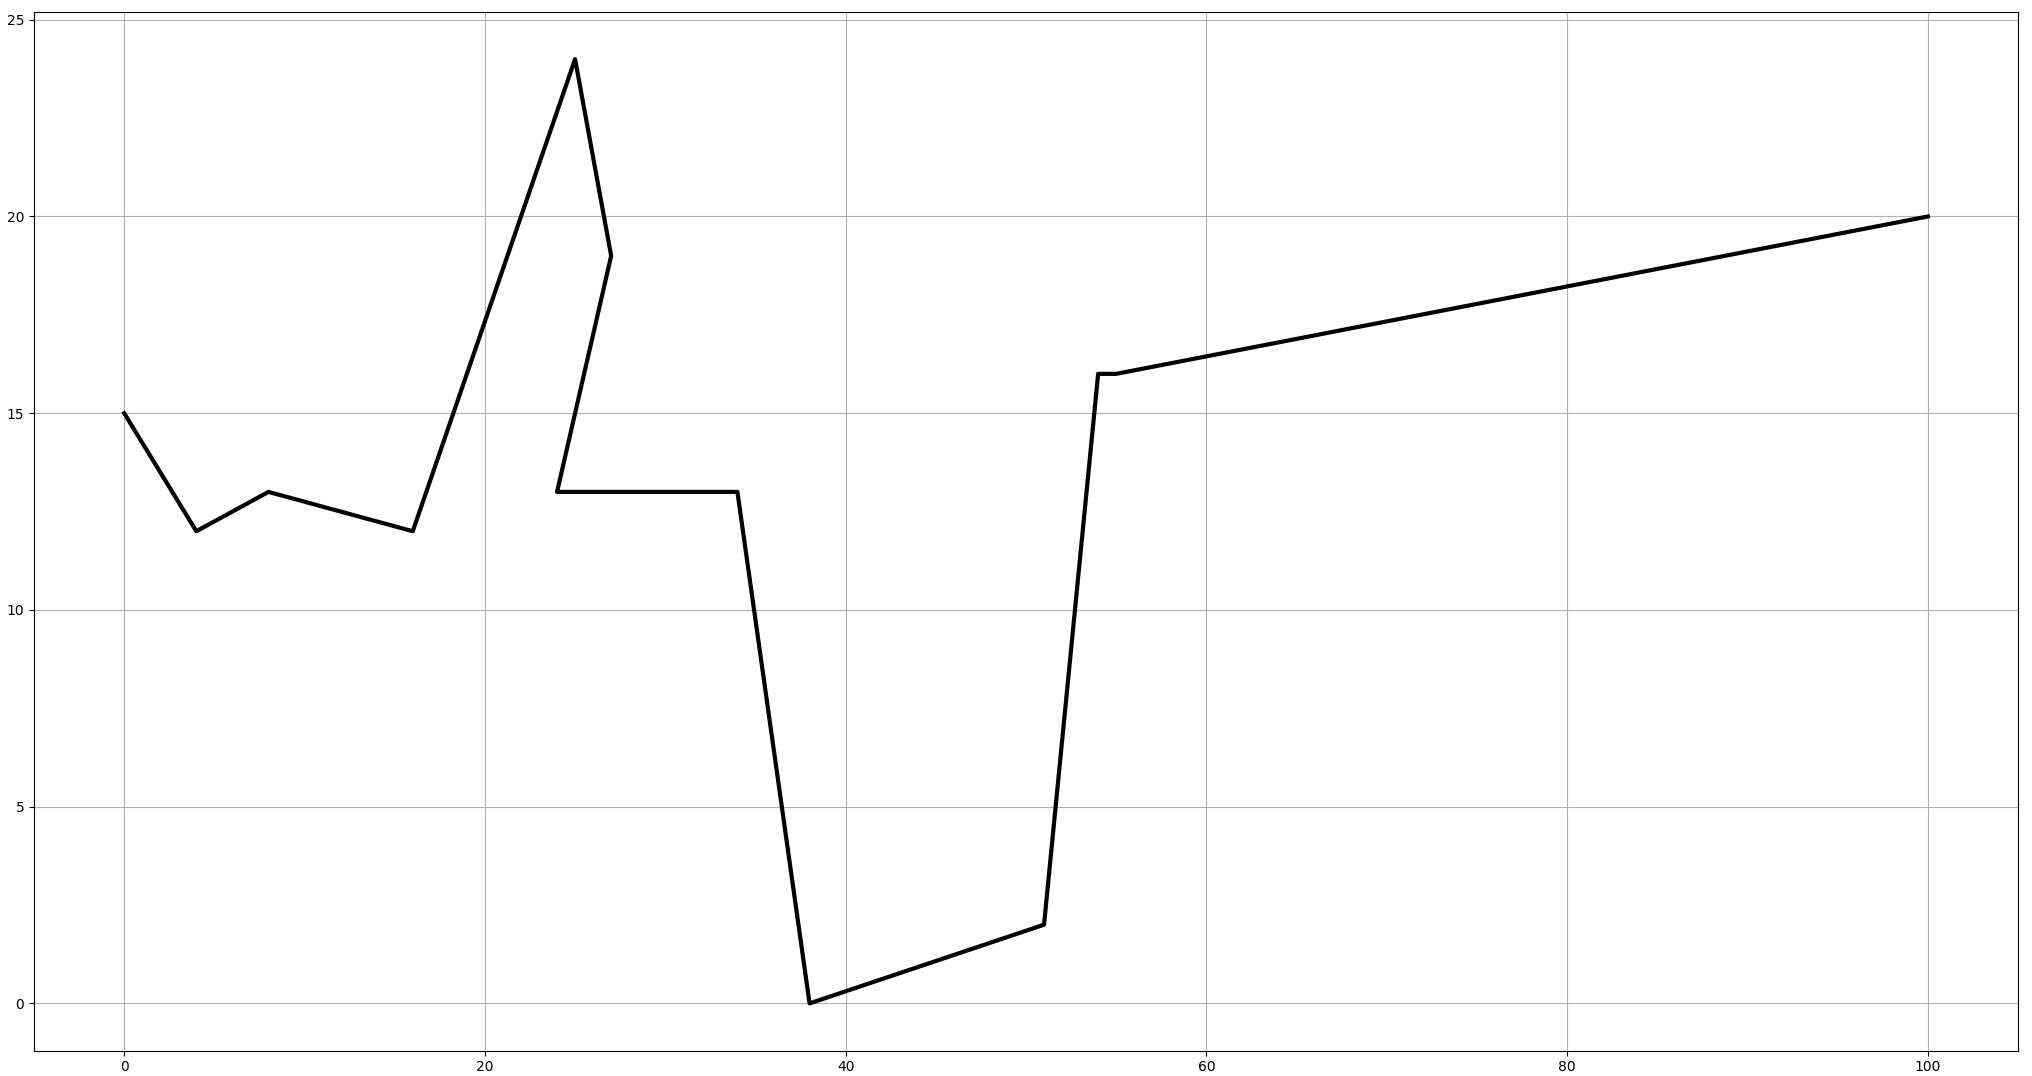
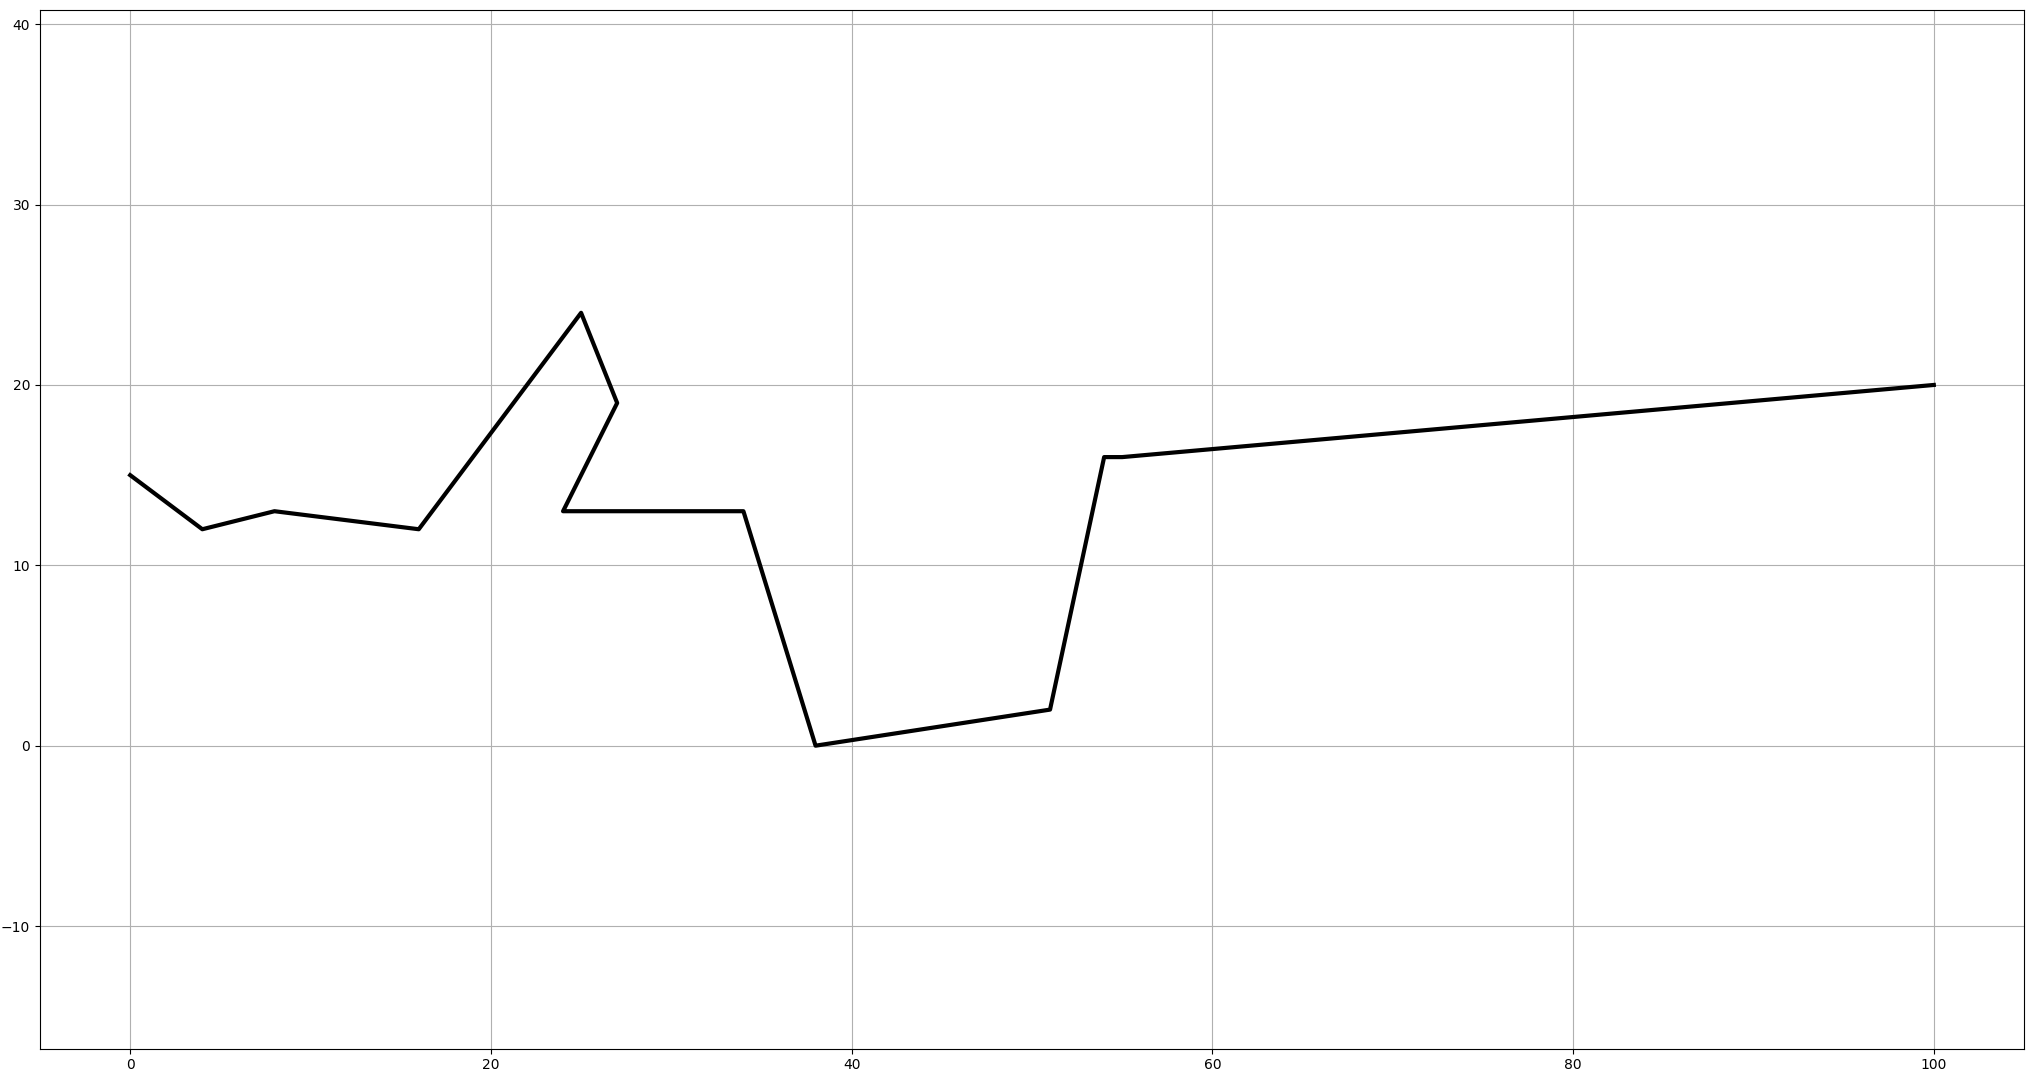
Create new images

diff --git a/python/start.py b/python/start.py
@@ -6,7 +6,7 @@ import matplotlib.pyplot as plt
 
 import python.plots as plots
 
-t = 1.1
+t = 1.2
 epsilon = 0.05
 s = (12 + 24 * (1 + epsilon / 3) * t) / epsilon
 path = [
@@ -26,14 +26,12 @@ path = [
 ]
 n = len(path)
 
-S = util.flatten_path(path)
 
-
-def plot_shortest_path(path):
-    x_list = [path[0].x, path[2].x, path[4].x, path[6].x, path[7].x, path[8].x, path[9].x, path[11].x]
-    y_list = [path[0].y, path[2].y, path[4].y, path[6].y, path[7].y, path[8].y, path[9].y, path[11].y]
+def plot_shortest_path(path, indices):
+    x_list = [path[i].x for i in indices]
+    y_list = [path[i].y for i in indices]
     line = plt.plot(x_list, y_list)
-    plt.setp(line, color='red', linewidth=3)
+    plt.setp(line, color='lightgreen', linewidth=2)
 
 
 def print_edges(edges):
@@ -41,16 +39,36 @@ def print_edges(edges):
         print(e)
 
 
-dil = util.get_all_dilations(path, S)
+def print_edge_lengths(path, S):
+    for i in range(len(path) - 1):
+        print("Edge between " + path[i].name + " and " + path[i + 1].name + ":\t" + str(S[i + 1] - S[i]))
 
+
+def plot_edge_lengths():
+    plots.plot_points(path, [0, 4], 'red')
+    plots.plot_text_on_edge(path[0], path[1], round(S[1], 1), (-1.5, -1.5))
+    plots.plot_text_on_edge(path[1], path[2], round(S[2] - S[1], 1), (0.15, -1))
+    plots.plot_text_on_edge(path[2], path[3], round(S[3] - S[2], 1), (0, -1.5))
+    plots.plot_text_on_edge(path[3], path[4], round(S[4] - S[3], 1), (0.8, -0.3))
+    plots.plot_text_on_edge(path[0], path[4], round(util.euclidean_distance(path[0], path[4]), 1), (-1, 1))
+
+
+S = util.flatten_path(path)
 edges = util.get_t_distance_preserving_edges(path, t, S)
-edges_epsilon = util.get_t_epsilon_distance_preserving_edges(path, t, epsilon, S)
+# edges_epsilon = util.get_t_epsilon_distance_preserving_edges(path, t, epsilon, S)
+
+# print_edge_lengths(path, S)
+# print("Euclidean:\t" + str(util.euclidean_distance(path[0], path[4])))
+# print("Euclidean*t:\t" + str(util.euclidean_distance(path[2], path[4])*1.1))
+# print("delta: \t" + str((S[4]-S[2])))
 
 plots.plot_path(path)
+
 # plots.plot_edges(edges_epsilon, 'green')
-plots.plot_edges(edges, 'orange')
-# plot_shortest_path(path)
-# plots.plot_points(path, [0, 4], 'red')
+# plots.plot_edges(edges, 'orange')
+plot_shortest_path(path, [0, 2, 4, 6, 7, 8, 9, 11, 12])
+
+
 plt.show()
 
 T = SplitTree.compute_split_tree(S, 0, n - 1)

diff --git a/python/plots.py b/python/plots.py
@@ -6,6 +6,7 @@ def plot_path(path):
     x_list = [node.x for node in path]
     y_list = [node.y for node in path]
     lines = plt.plot(x_list, y_list)
+    plt.axis('equal')
     plt.setp(lines, linewidth=3, color='black')
     plt.grid(True)
 
@@ -13,7 +14,7 @@ def plot_path(path):
 def plot_edges(edges, color):
     for edge in edges:
         line = plt.plot([edge.head.x, edge.tail.x], [edge.head.y, edge.tail.y])
-        plt.setp(line, linewidth=2,  color=color)
+        plt.setp(line, linewidth=2, color=color)
 
 
 def plot_points(path, indices, color):
@@ -22,3 +23,6 @@ def plot_points(path, indices, color):
     lines = plt.plot(x_list, y_list)
     plt.setp(lines, linewidth=2, color=color)
 
+
+def plot_text_on_edge(start, end, text, shift):
+    plt.text(start.x + (end.x - start.x) / 2 + shift[0], start.y + (end.y - start.y) / 2 + shift[1], text, fontsize=15)

diff --git a/python/util.py b/python/util.py
@@ -53,3 +53,4 @@ def get_all_dilations(path, S):
         for j in range(i + 2, len(path)):
             result.append(delta(i, j, S) / euclidean_distance(path[i], path[j]))
     return sorted(result)
+
